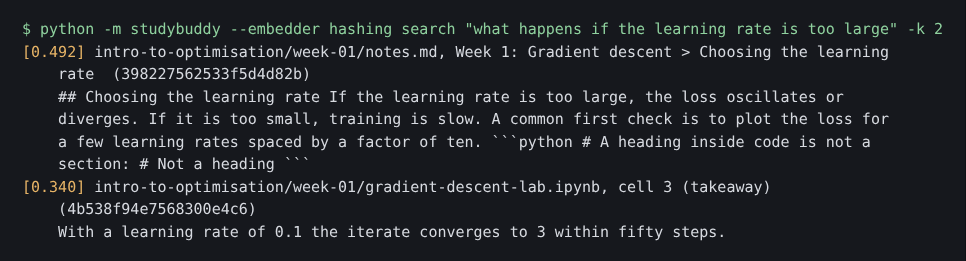
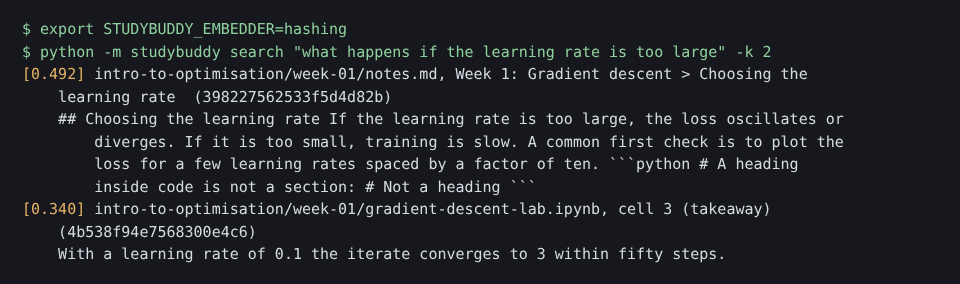
[GH-14] Fix review findings: diagram, chunk ID claims, moved content, CLI demo
Show that the app searches with dense retrieval and that retrieval.py
feeds the comparison. Correct what the README says about chunk IDs.
Restore details lost in the move to docs/, add a search-then-read GIF,
and use the section screenshot in docs/study-rooms.md.

Claude-Session: https://claude.ai/code/session_019gz916dhm3V8XG9ZpfN5Bu

Changed region(s): [[0.0, 0.0613, 0.9688, 0.9195]]

diff --git a/studybuddy/evaluate.py b/studybuddy/evaluate.py
@@ -6,8 +6,10 @@
 The corpus is `sample_course/` plus the extra weeks in `eval/extra/`,
 copied to a temp folder. Queries and relevance labels are in
 `eval/queries.jsonl`. Results go to `eval/results/<embedder>/`:
-`report.md`, `summary.json`, and `failures.jsonl` (one line per query
-and method where no relevant chunk is in the top 5).
+`report.md`, `summary.json`, `per_query.json`, and `failures.jsonl` (one
+line per query and method where no relevant chunk is in the top 5).
+Build and query timings go to `timings.json`, which git ignores under
+`eval/results/`, so reruns leave the tracked files unchanged.
 
 Hybrid settings (RRF constant and candidate depth) are tuned on the
 `tune` split only. Decisions use the `heldout` split.

diff --git a/README.md b/README.md
@@ -17,7 +17,11 @@ Course material is spread across slides, notes, and lab notebooks, and a search 
 |---|---|
 | ![Terminal output of a search for "what happens if the learning rate is too large", showing the top passage from notes.md under the heading "Choosing the learning rate"](docs/media/search-result.png) | ![Animation: picking an answer in the study room quiz, revealing the answer, and clicking the citation to open the cited section of notes.md](docs/media/quiz-to-source.gif) |
 
-The search above used the offline `hashing` embedder, so the scores are lexical, not semantic.
+Asking from the command line, then opening the full passage and its citation:
+
+![Animation: a search for "what happens if the learning rate is too large" returns one passage with its chunk ID, then "read" with that ID prints the full text and a citation naming notes.md, its headings, and line 11](docs/media/ask-and-read.gif)
+
+These runs used the offline `hashing` embedder, so the scores are lexical, not semantic. Free-form questions in the chat app need a local Ollama model, which this repo's cloud checks do not run.
 
 ## Quickstart
 
@@ -42,7 +46,7 @@ python -m studybuddy room intro-to-optimisation 1
 # Open .studybuddy/rooms/intro-to-optimisation/week-01/index.html
 
 python -m pytest -q
-# 116 passed
+# all tests pass
 ```
 
 For your own courses, the real embedding model (`BAAI/bge-small-en`), the chat app, and the MCP server, see [docs/usage.md](docs/usage.md).
@@ -54,16 +58,17 @@ flowchart LR
   F["Course folder<br/>PDF, Markdown, notebooks"] --> S["sources.py<br/>pages, headings, cells"]
   S --> C["chunking.py<br/>stable chunk IDs"]
   C --> E["embeddings.py<br/>bge-small-en or hashing"]
-  E --> L[("library.py<br/>SQLite index")]
-  L --> R["retrieval.py<br/>dense, BM25, TF-IDF, hybrid"]
-  R --> A["api.py<br/>search, read, week"]
+  E --> L[("library.py<br/>SQLite index, dense search")]
+  L -- "dense search" --> A["api.py<br/>search, read, week"]
+  L --> R["retrieval.py<br/>BM25, TF-IDF, hybrid"]
+  R --> Ev["evaluate.py<br/>method comparison"]
   A --> CLI["CLI<br/>python -m studybuddy"]
   A --> MCP["MCP server<br/>mcp_server.py"]
   A --> Chat["Streamlit chat<br/>agent/ + Ollama"]
   L --> Room["room/<br/>study room HTML"]
 ```
 
-Each file is split where it has natural boundaries: one section per PDF page, Markdown heading, or notebook cell. Those sections are cut into chunks whose IDs come from the file path and location, so citations and quiz progress survive re-imports. Each file's cache key includes its SHA-256 and the parser, chunker, and embedder versions, so only what changed is rebuilt. The CLI, MCP server, and chat agent all call the same functions in `api.py`, so they return the same citations. More detail, including what happens when a file fails to parse: [docs/how-it-works.md](docs/how-it-works.md).
+Each file is split where it has natural boundaries: one section per PDF page, Markdown heading, or notebook cell. Those sections are cut into chunks whose IDs hash the file path, location, position, and text, so they stay the same across runs and when other parts of the file change. Each file's cache key includes its SHA-256 and the parser, chunker, and embedder versions, so only what changed is rebuilt. The CLI, MCP server, and chat agent all call the same functions in `api.py`, so they return the same citations. They search with dense retrieval; `retrieval.py` adds BM25, TF-IDF, and hybrid for the comparison below. More detail, including what happens when a file fails to parse: [docs/how-it-works.md](docs/how-it-works.md).
 
 ## Results and limits
 
@@ -71,23 +76,24 @@ Held-out MRR@10 on the 44-query set (`eval/queries.jsonl`), from [docs/evaluatio
 
 | Method | Offline embedder (`hashing`), reproduced in this repo's committed results | Real model (`bge-small-en`), historical: checked on a Mac, not rerun here |
 |---|---|---|
-| BM25 | 0.884 | same (BM25 does not use the embedder) |
-| TF-IDF | 0.877 | same |
+| BM25 | 0.884 | same as left (BM25 does not use the embedder) |
+| TF-IDF | 0.877 | same as left (TF-IDF does not use the embedder) |
 | Dense | 0.650 (not semantic) | 0.782 |
 | Hybrid (dense + BM25) | 0.786 | 0.889 |
 
-With the real model, hybrid beats BM25 by only 0.005, well under the 0.05 margin the project set for adopting it, so plain keyword search is a strong baseline on this material. Full metrics are in [`eval/results/hashing-v1-512/report.md`](eval/results/hashing-v1-512/report.md).
+With the real model, hybrid beats BM25 by only 0.005, well under the 0.05 margin the project set for adopting it, so plain keyword search is a strong baseline on this material. The app itself still searches with dense retrieval only. Full metrics are in [`eval/results/hashing-v1-512/report.md`](eval/results/hashing-v1-512/report.md).
 
 Limits:
 
 - The relevance labels were written by a model and have not been checked by a person.
 - The query set is small (44 queries, about half held out), so differences of a few hundredths are noise.
+- The app searches with dense retrieval only, although BM25 scored best on this query set.
 - The chat agent's quiz and summary tools are placeholders. Study room quizzes come from the extractive builder, not a model, unless you pass `--generate`.
 - Only the offline embedder was run in this repo's cloud checks. The real model needs a Hugging Face download.
 
 ## Design note
 
-**Choice: cite locations, not just files.** Chunk IDs and study room section IDs come from where a passage lives (file, page, heading path, or cell), not from its text. Editing your notes then keeps the same IDs, so citations, quiz progress, and your own edits to a room survive a rebuild.
+**Choice: name sections by where they live, not by what they say.** Study room section IDs come from the passage's location (file, page, heading path, or cell), not from its text. Editing your notes then keeps the same section IDs, so quiz progress and your own edits to a room survive a rebuild. Search chunk IDs also include the text, so a citation always points at the exact words it quoted.
 
 **What failed:** giving notebook code cells their surrounding words helped keyword search find them, but embedding that context too made the real model worse (held-out dense MRR@10 fell from 0.782 to 0.708). The context is now used for keyword search only. See [docs/evaluation.md](docs/evaluation.md#notebook-code-cells-parser-version-2).
 

diff --git a/docs/evaluation.md b/docs/evaluation.md
@@ -16,7 +16,8 @@ python -m studybuddy.evaluate --embedder hashing    # offline; dense is then not
 - Output: `eval/results/<embedder>/report.md`, `summary.json`, `per_query.json`, and
   `failures.jsonl` (each miss in the top 5, and each unanswerable query that got results).
   Build and query timings go to `timings.json` in the same folder, which git ignores, so
-  rerunning the comparison leaves the committed results unchanged.
+  rerunning the comparison leaves the committed results unchanged. With `--out` outside
+  `eval/results/`, `timings.json` is written there too and is not ignored.
 - Hybrid's settings are tuned on `tune` only. It is adopted only if, with a semantic
   embedder, it beats the best single method on held-out MRR@10 by at least 0.05 without
   losing Recall@5. "BM25 is enough" is a valid outcome.

diff --git a/docs/how-it-works.md b/docs/how-it-works.md
@@ -1,5 +1,9 @@
 # How retrieval works
 
+Notebooks are read as JSON: their cells are never run and their outputs are ignored. Importing again skips unchanged files, re-reads and re-embeds a changed file on its own, and drops a deleted file from search.
+
+Every search result carries the file path, course, week, location (page, heading path, or cell ID), the character offsets of the chunk inside that page, section, or cell, and the hash of the file it came from.
+
 1. `studybuddy/sources.py` finds supported files and splits them into
    sections: one per PDF page, one per Markdown heading, one per notebook
    cell. The course is the top-level folder; the week comes from a

diff --git a/docs/usage.md b/docs/usage.md
@@ -1,5 +1,7 @@
 # Setup and use
 
+The chat UI (Streamlit) runs a LangChain ReAct agent on a local Ollama model. The agent calls the search tool and is told to cite sources. Its `Quiz_Generator` and `Summarizer` tools are placeholders: they return a fixed template and the first 200 characters of the input, and do not use the model or your notes yet.
+
 ## Install with the real model and the chat
 
 Requires Python 3.12 (the lock file targets it) and [Ollama](https://ollama.com) for the chat.

diff --git a/docs/study-rooms.md b/docs/study-rooms.md
@@ -1,5 +1,9 @@
 # Study rooms
 
+Each section quotes its source and lists the passages it cites:
+
+![The "Choosing the learning rate" section of a study room, marked "From the source", with its citation to notes.md](media/study-room-section.png)
+
 ```bash
 python -m studybuddy import sample_course
 python -m studybuddy room intro-to-optimisation 1
